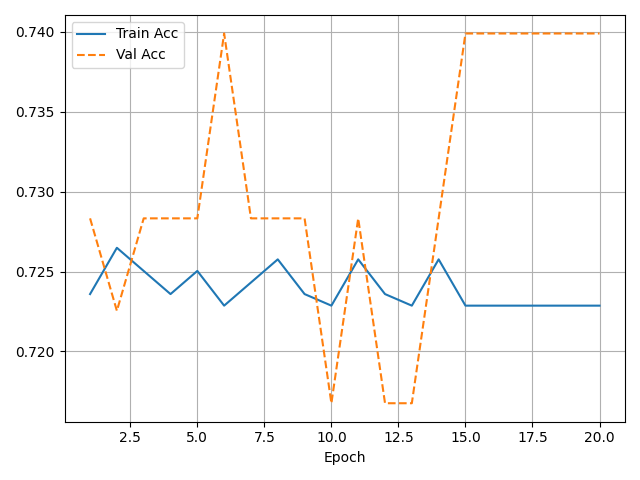
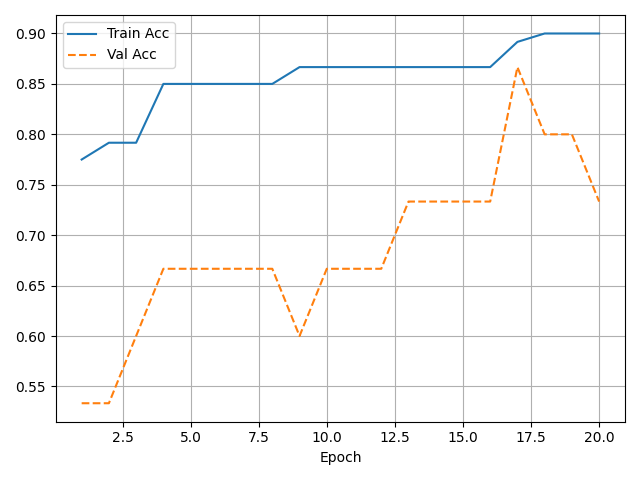
first commit

diff --git a/test.py b/test.py
@@ -210,7 +210,7 @@ def main(args):
     X_train, X_temp, Y_train, Y_temp = train_test_split(X, Y, test_size=0.3, random_state=42)
     X_val, X_test, Y_val, Y_test = train_test_split(X_temp, Y_temp, test_size=0.5, random_state=42)
 
-    X_train, X_val, X_test, Y_train, Y_val, Y_test = load_data("car")
+    X_train, X_val, X_test, Y_train, Y_val, Y_test = load_data("iris")
     print("Dimensions:", X_train.shape, Y_train.shape)
 
     num_classes = len(np.unique(np.concatenate([Y_train, Y_val, Y_test])))
@@ -241,9 +241,10 @@ def main(args):
 
     theta, thresholds, mu_b, history = model.train(X_train, Y_train, X_val=X_val, Y_val=Y_val, save_every=args.save_every, ckpt_path=args.ckpt)
 
-    model.save_checkpoint(args.ckpt.rstrip('.pt')+'_final.pt', extras={'final': True})
+    if args.ckpt is not None:
+        model.save_checkpoint(args.ckpt.rstrip('.pt')+'_final.pt', extras={'final': True})
     plot_history(history, 'train_val_loss.png', 'train_val_accuracy.png')
-    print("\\nTraining complete.")
+    print("\nTraining complete.")
     if theta is not None:
         print("Final quantum parameters (theta):", theta)
     else:
